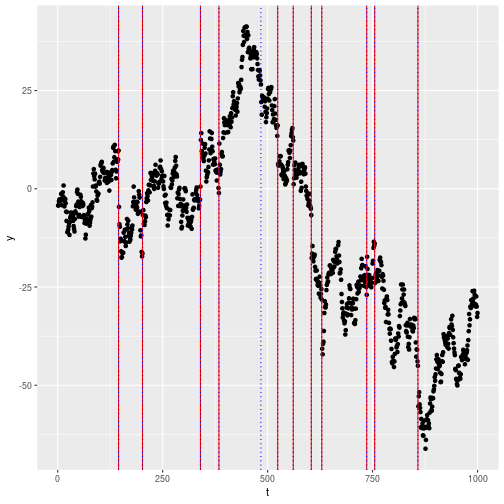
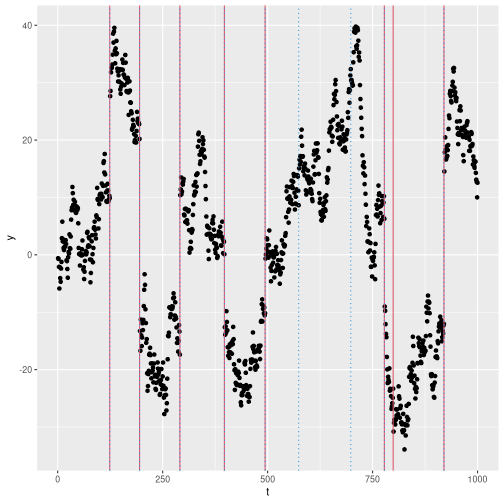
updated README

diff --git a/README.tex.md b/README.tex.md
@@ -99,7 +99,7 @@ We will start generating a Random Walk. The function `dataRWAR` takes in:
 
 ```r
 set.seed(42)
-Y = dataRWAR(n = 1e3, poisParam = .01, meanGap = 15, phi = .5, sdEta = 3, sdNu = 1)
+Y = dataRWAR(n = 1e3, phi = .5, sdEta = 3, sdNu = 1, nbSeg = 10, type = "rand1", jumpSize = 20)
 y = Y[["y"]]
 ```
 
@@ -122,13 +122,7 @@ In this case, since we both have an AR and RW component, we will need to pass do
 
 
 ```r
-res = DeCAFS(y,  beta = 2 * log(length(y)), modelParam = list(sdEta = 3, sdNu = 1, \phi = .7))
-```
-
-```
-## Error: <text>:1:84: unexpected input
-## 1: res = DeCAFS(y,  beta = 2 * log(length(y)), modelParam = list(sdEta = 3, sdNu = 1, \
-##                                                                                        ^
+res = DeCAFS(y,  beta = 2 * log(length(y)), modelParam = list(sdEta = 3, sdNu = 1, phi = .5))
 ```
 
 
@@ -145,7 +139,7 @@ Our Algorithm is capable of dealing with this extreme situation:
 
 ```r
 set.seed(44)
-Y = dataRWAR(n = 1e3, poisParam = .01, meanGap = 15, phi = 0, sdEta = 2, sdNu = 1)
+Y = dataRWAR(n = 1e3, phi = 0, sdEta = 2, sdNu = 1, nbSeg = 10, type = "rand1", jumpSize = 20)
 y = Y[["y"]]
 
 res = DeCAFS(y,  beta = 2 * log(length(y)), modelParam = list(sdEta = 2, sdNu = 1, phi = 0))
@@ -165,7 +159,7 @@ In this case we need to set $\sigma_\eta = 0$, and for $\phi = 0.98$:
 
 ```r
 set.seed(46)
-Y = dataRWAR(n = 1e3, poisParam = .01, meanGap = 10, phi = .98, sdEta = 0, sdNu = 2)
+Y = dataRWAR(n = 1e3, phi = .98, sdEta = 0, sdNu = 2,  nbSeg = 10, type = "rand1", jumpSize = 20)
 y = Y[["y"]]
 
 res = DeCAFS(y,  beta = 2 * log(length(y)), modelParam = list(sdEta = 0, sdNu = 2, phi = .98))
@@ -175,7 +169,7 @@ which leads to the result:
 
 ![plot of chunk plot3](figure/plot3-1.png)
 
-we see that in this case we miss one changepoint.
+we see that in this case we miss two changepoints.
 
 ## Contributing to this package
 
